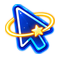
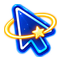
fix(cursor): 누름 커서를 95% 로 줄이고 촉을 배율별로 맞춘다 (S15P21A604-952)

diff --git a/docs/24_작업일지.md b/docs/24_작업일지.md
@@ -17,7 +17,8 @@
 - 브랜드 포인터(S15P21A604-835)와 Game Studio 예외 복원(S15P21A604-854)에 이어 두 상태를 더했다 — 좌클릭을 누르고 있는 동안의 커서, 그리고 글자를 넣는 칸의 I빔.
 - 누름 판정을 CSS 에 두지 않았다. `:active` 는 우클릭·휠 클릭에도 똑같이 걸려 왼쪽만 가릴 수 없다. `button === 0` 판정은 `main.tsx` 가 하고 그림은 `index.css` 가 `body.is-pressing` 으로 받는다.
 - 떼는 것은 `window` 의 `mouseup`·`blur` 에서 받는다. 누른 채 창 밖으로 나가 떼면 요소 쪽 `mouseup` 이 오지 않아 클래스가 남고 커서가 눌린 모양으로 굳는다. 창이 포커스를 잃는 경우도 같은 구멍이다.
-- 누름 판은 전역 포인터와 **같은 틀로** 뽑았다 — 32 타일 안 28 박스, hotspot 도 같은 `7 2`. 다르게 두면 누르는 순간 화살표 크기와 촉 위치가 함께 흔들려 커서가 튄 것처럼 보인다.
+- 누름 판은 전역 포인터와 같은 32 타일에 **95% 크기**로 뽑았다. 누르면 촉을 축으로 살짝 움츠러드는 모양이다 — 크기만 줄이고 촉이 따라 움직이면 커서가 튄 것처럼 보이므로, 줄인 그림을 가운데 두지 않고 촉이 기준 자리에 오도록 위치를 계산해 붙인다.
+- **촉 자리는 계산하지 않고 전역 포인터 파일에서 직접 재서 맞춘다.** 그 두 파일의 1x 와 @2x 가 서로 반 픽셀 어긋나 있어(1x `(7, 2)` · @2x `(15, 4)`), 이론값으로 맞추면 고해상도 화면에서만 1px 튄다. 배율마다 따로 재서 붙였다 — T-141.
 - Unity 캔버스는 id 선택자(1,0,0)라 누름 규칙(0,1,1)으로 덮이지 않는다. 정작 가장 많이 누르는 자리라 같은 id 에 클래스를 더해(1,1,1) 한 번 더 적었다.
 - 입력칸은 브랜드 I빔을 먼저 주고 못 읽는 환경은 뒤의 `text` 로 내려가게 했다 — 모양 자체가 사용법인 자리라 최후 수단이 `auto` 면 뜻이 사라진다.
 - 검증: `tsc --noEmit` 0건, oxlint 0건. 커서는 자동 검사가 닿지 않아 브라우저 확인이 근거다.

diff --git a/docs/LJH/25_트러블슈팅.md b/docs/LJH/25_트러블슈팅.md
@@ -1,5 +1,13 @@
 # 트러블슈팅 (LJH)
 
+### T-141. 커서 두 판의 hotspot 을 계산값으로 맞췄더니 고해상도 화면에서만 1px 튀었다 (2026-09-21, 해결)
+
+- **증상**: 좌클릭을 누르는 순간 화살촉이 제자리에 있지 않고 살짝 옮겨 앉는다. 누름 판을 전역 포인터와 같은 32 타일·28 박스로 뽑고 hotspot 도 같은 `7 2` 로 적었는데도 그랬다. 저해상도 화면에서는 재현되지 않는다.
+- **원인**: 전역 포인터의 1x 와 @2x 가 **서로 반 픽셀 어긋나 있다**. 실측하면 `festa-pointer.png` 의 촉은 `(7, 2)`, `festa-pointer@2x.png` 의 촉은 `(15, 4)` 다 — 2배면 `(14, 4)` 여야 하는데 원본 에셋이 그렇게 만들어져 있었다. 나는 누름 판을 이론값 `(14, 4)` 에 맞췄고, 그래서 `image-set` 이 @2x 를 집는 화면에서만 두 그림의 촉이 1 device px 어긋났다. hotspot 선언은 양쪽 다 `7 2` 라 CSS 만 읽어서는 보이지 않는다.
+- **해결**: 이론값을 버리고 **포인터 파일에서 촉을 직접 읽어 그 자리에 정렬**한다. 배율마다 기준이 다르다는 전제로 1x 는 `(7, 2)`, @2x 는 `(15, 4)` 에 맞춰 붙인다. 가운데 정렬도 쓰지 않는다 — 95% 로 줄이면 촉이 타일 안쪽으로 밀려 같은 어긋남이 다시 난다.
+- **예방**: **커서 그림을 새로 만들면 hotspot 을 계산하지 말고 기준 그림에서 재서 맞춘다.** 배율별로 따로 잰다. 확인은 알파·색으로 촉 좌표를 뽑아 기준과 같은 값인지 보는 것으로 끝난다 — 눈으로는 1px 을 가릴 수 없고, 자동 검사도 커서에는 닿지 않는다.
+- **관련**: S15P21A604-952 · `public/cursors/festa-click*.png`
+
 ### T-139. mock 리셋이 seed 를 인덱스로 덧칠해, 행이 하나 늘자 화면이 크래시했다 (2026-09-21, 해결)
 
 - **증상**: 관리자 콘솔 이벤트 상점 테스트 5건이 `TypeError: Cannot read properties of undefined (reading 'length')` 로 죽었다. 터진 자리는 손대지 않은 줄 — `nextFulfillmentOptions(p.fulfillment).length` 였다.

diff --git a/docs/LJH/24_작업일지.md b/docs/LJH/24_작업일지.md
@@ -16,7 +16,8 @@
 
 - 무엇을: `body.is-pressing` 누름 커서와 입력칸 브랜드 I빔. 판정은 `main.tsx` 의 `mousedown(button === 0)`, 그림은 `index.css`.
 - 왜: `:active` 는 우클릭·휠 클릭에도 걸려 왼쪽만 가리지 못한다. 떼는 것을 `window` 의 `mouseup`·`blur` 에서 받는 것도 같은 이유다 — 누른 채 창 밖에서 떼면 커서가 눌린 모양으로 굳는다.
-- **같은 틀로 뽑았다**: 32 타일 안 28 박스, hotspot `7 2`. 포인터와 다르게 두면 누르는 순간 화살표가 흔들려 커서가 튄 것처럼 보인다. Unity 캔버스는 id 선택자(1,0,0)라 누름 규칙(0,1,1)이 못 덮어 같은 id 에 클래스를 더해 한 번 더 적었다.
+- **누르면 95% 로 움츠러든다**: 같은 32 타일에 95% 크기로 뽑되, 줄인 그림을 가운데 두지 않고 촉이 기준 자리에 오도록 붙인다. 크기와 촉이 함께 움직이면 커서가 튄 것처럼 보인다. Unity 캔버스는 id 선택자(1,0,0)라 누름 규칙(0,1,1)이 못 덮어 같은 id 에 클래스를 더해 한 번 더 적었다.
+- **촉은 재서 맞춘다**: 전역 포인터의 1x·@2x 가 서로 반 픽셀 어긋나 있어(`(7, 2)` vs `(15, 4)`) 이론값으로 맞추면 고해상도 화면에서만 1px 튄다. 배율마다 기준 파일에서 직접 재서 정렬했다 — T-141.
 - 결과: tsc clean · oxlint clean. 커서는 자동 검사가 닿지 않아 브라우저 확인이 근거다.
 - 관련: `S15P21A604-952`, `index.css`·`main.tsx`·`public/cursors/festa-click*.png`·`festa-text*.png`
 
